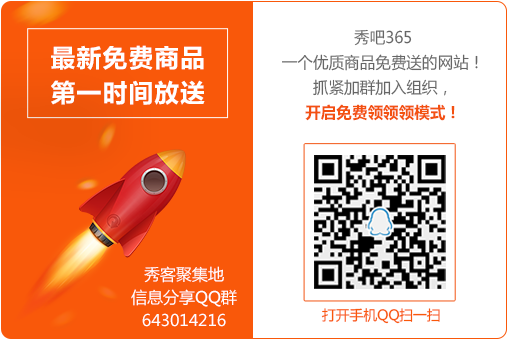
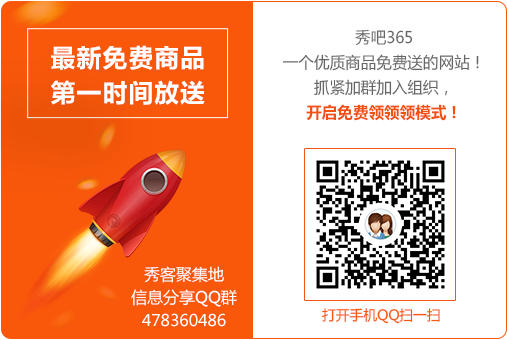
替换秀客QQ群号和二维码 删除package.json中无用依赖

diff --git a/src/components/TopTip.vue b/src/components/TopTip.vue
@@ -25,10 +25,10 @@
           <span >482437157</span>
           <span style="color: #000">(内幕玩法抢先得)</span>
         </a>
-        <a v-if="getUserInfo.role == 0" target="_blank" href="http://shang.qq.com/wpa/qunwpa?idkey=a5e370e72edddbc2b9edc58d9517719b97d32a6683ef4faa0675c52bf494d9d1" class="ml-10 qq-tip">
+        <a v-if="getUserInfo.role == 0" target="_blank" href="http://shang.qq.com/wpa/qunwpa?idkey=c8b3150dbd8821f50cced9a08831de701636de9ae107e707114150d0050df9a4" class="ml-10 qq-tip">
           <img src="~assets/img/common/qq.png" alt="" >
           加入QQ交流群：
-          <span >643014216</span>
+          <span >478360486</span>
           <span style="color: #000">(第一时间抢便宜)</span>
         </a>
       </p>
@@ -40,10 +40,6 @@
         <span class="user-name">
           <router-link to="/sel-role">免费注册</router-link>
         </span>
-        <!--<a href="" class="ml-10 qq-tip">-->
-          <!--<img src="~assets/img/common/qq.png" alt="" >-->
-          <!--加入QQ交流群：<span>478732305</span>-->
-        <!--</a>-->
       </p>
       <p class="right">
         <router-link to="/">

diff --git a/src/App.vue b/src/App.vue
@@ -8,10 +8,10 @@
     <side-navigation></side-navigation>
     <!--侧边栏固定联系客服图片展示-->
     <div class="suspend-service" v-show="showSuspendService" v-if="isLogin">
-      <a href="http://shang.qq.com/wpa/qunwpa?idkey=c05716ea03d527adb67d4e23d2a9ed942f729dfb0db13ca332e10996805d2b9d" target="_blank" v-if="getUserRole === 1">
+      <a href="http://shang.qq.com/wpa/qunwpa?idkey=c8b3150dbd8821f50cced9a08831de701636de9ae107e707114150d0050df9a4" target="_blank" v-if="getUserRole === 1">
         <img src="~assets/img/common/suspend-service.png" alt="">
       </a>
-      <a href="http://shang.qq.com/wpa/qunwpa?idkey=a5e370e72edddbc2b9edc58d9517719b97d32a6683ef4faa0675c52bf494d9d1" target="_blank" v-else>
+      <a href="http://shang.qq.com/wpa/qunwpa?idkey=c8b3150dbd8821f50cced9a08831de701636de9ae107e707114150d0050df9a4" target="_blank" v-else>
         <img src="~assets/img/common/suspend-service-showker.png" alt="">
       </a>
       <span class="close-suspend-service" @click.stop.self="closeSuspendService">关闭</span>

diff --git a/src/components/SideNavigation.vue b/src/components/SideNavigation.vue
@@ -19,7 +19,7 @@
     <Tooltip placement="left" :always="always" :transfer="true" :disabled="disabled" class="mt-10 display-block" v-if="isLogin && getUserRole === 0">
       <div class="side-box side-box-bg qq"></div>
       <div slot="content">
-        <p class="pt-10">产品客服：<a href="http://shang.qq.com/wpa/qunwpa?idkey=a5e370e72edddbc2b9edc58d9517719b97d32a6683ef4faa0675c52bf494d9d1" class="qq-refer-logo" target="_blank"></a></p>
+        <p class="pt-10">产品客服：<a href="http://shang.qq.com/wpa/qunwpa?idkey=c8b3150dbd8821f50cced9a08831de701636de9ae107e707114150d0050df9a4" class="qq-refer-logo" target="_blank"></a></p>
         <p class="mt-20">咨询时间：周一至周五</p>
         <p class="text-align-rt mt-5">9:00 --- 18:00</p>
       </div>
